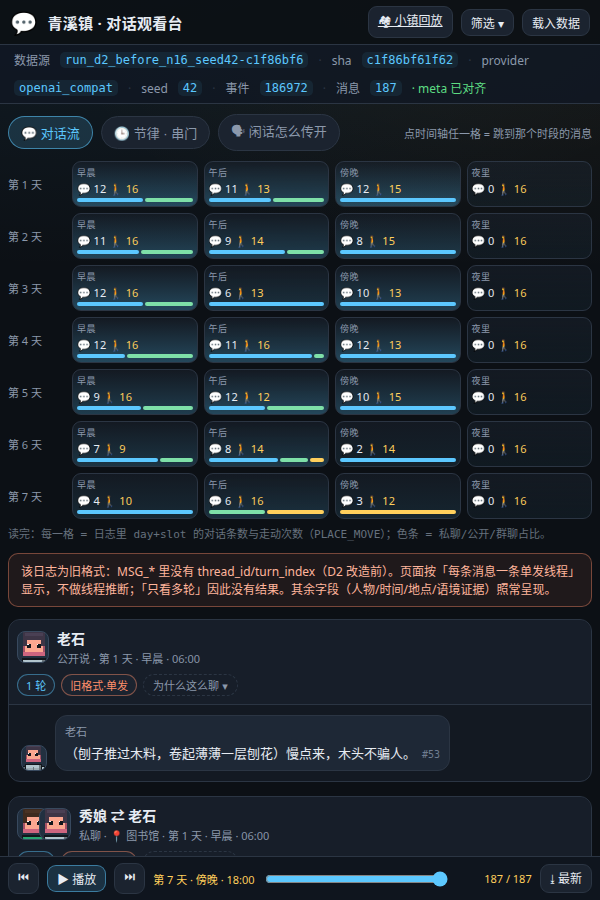
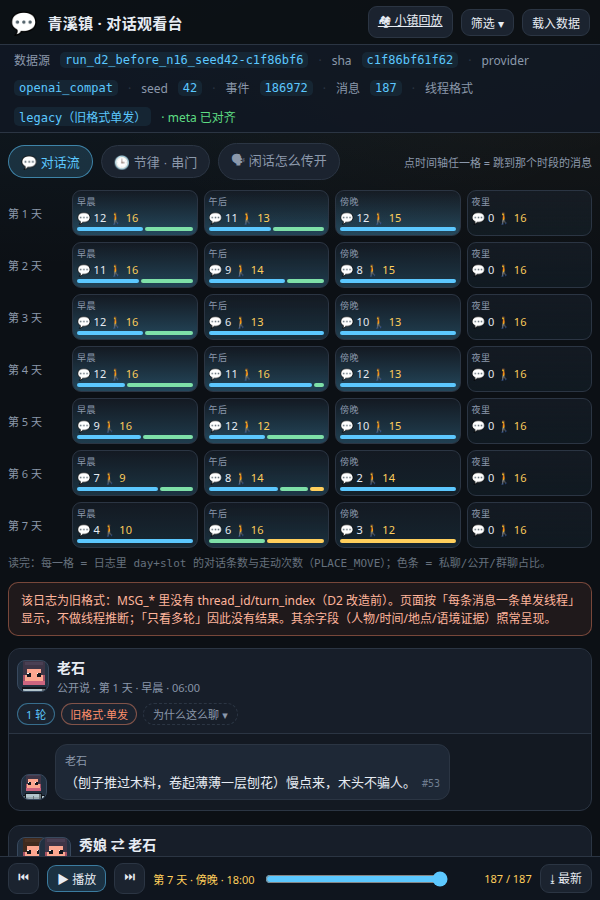
D7: 截图默认输出落 v2/evidence/d7_shots(不留 code/shots 临时目录); 同批重出四张核对一致

diff --git a/reports/R4-life-texture.md b/reports/R4-life-texture.md
@@ -8,20 +8,20 @@
 
 ---
 
-## 0. 切入点：不是「不够生活」，而是**结构性为零**
+## 0. 切入点：两个机制**近乎缺席**（不是「不够生活」，是「几乎没有」）
 
-**【读数】** 在改造前的一批真 LLM 日志上（20 agents × 84 回合 = 1 个模拟周，共 230 条对话消息），两类最能代表"过日子"的行为**完全没有出现过**：
+**【读数】** 在 **v0-anchor 锁定批**上（16 agents × 84 回合 = 1 个模拟周，187 条对话消息、172 线程；日志 `run.jsonl` (c1f86bf6)，186,972 行，`max_round=83`），两类最能代表"过日子"的行为**几乎不存在**：
 
-| 维度 | 编号 | v0 实测 | 分母 | 读法 |
+| 维度 | 编号 | **v0-anchor 实测（事件数，非百分比）** | 分母 | 读法 |
 |---|---|---|---|---|
-| **情绪呼应率** | F-3 | **0.0** | **16 条**"上句带情绪极性"的相邻对 | 16 次机会里，下一句一次也没有回应上一句的情绪 |
-| **修复闭环率** | F-4 | **0.0** | **6 次**张力事件 | 6 次关系张力里，一次也没有出现修复动作 |
+| **情绪呼应** | F-3 | **6 次机会中 1 次呼应** | 6 条"上句带情绪极性"的相邻对 | 几乎不接情绪 |
+| **修复闭环** | F-4 | **5 次张力事件中 0 次修复** | 5 次张力事件 | **一次也没有和好** |
 
[1 lines of base64/hex data omitted]
+（来源 **v0-anchor 锁定批**：读数 `v2/evidence/d5_metrics_v0anchor.md` (36ad719a) / `.json` (e8c8409e)；锁定凭证 `v2/evidence/d5_v0anchor_lock.md` (2940fb8f)；日志 `v2/evidence/run_d2_before_n16_seed42/run.jsonl` (c1f86bf6)，`wc -l`=186,972，`max_round=83`；`meta.json` (165c002a)；准入 **ADMITTED / strict / evidence**）
 
-**【判断】** 这两个 0 比任何形容词都有力。它说明的不是"对话不够有生活味"，而是：**居民从不相接对方的情绪，也从不修复关系张力**——吵架不会和好，开心不会有人接。这不是"少一点生活气息"，这是生活气息的两个关键机制**在结构上缺席**。
+**【判断】** 「5 次张力 0 次修复」比任何形容词都有力：它说明的不是"对话不够有生活味"，而是**关系张力产生之后没有任何修复动作**——吵架不会和好；情绪呼应也只有 1/6。两个关键机制**近乎缺席**。
 
-**【判断 · 但必须克制】** 同时要立刻说清这两条的样本量限制（详见 §5 限制 1）：F-4 的分母只有 **6**，F-3 只有 **16**。分母这么小，**不能**据此宣称"率为 0"是一个稳定的比率结论——正确表述是「**6 次张力事件中观察到 0 次修复**」这一**事件级事实**，以及"**本规模下无法判定修复闭环率**"这一统计结论。两个都写，不混。
+**【判断 · 但必须克制】** 这两条的样本量限制必须当场说清（详见 §5 限制 1）：F-4 分母 **5**、F-3 分母 **6**，**都 < 30**。因此按全族纪律：**只报事件数，不报百分比**，并一律标 `probe`、**不得进摘要与结论要点**。正确表述是「5 次张力事件中观察到 0 次修复」这一**事件级事实**，与"**本规模下无法判定修复闭环率**"这一统计结论——两个都写，不混，也不许把 0/5 说成"0%"。
 
 ---
 
@@ -48,22 +48,24 @@
 
 ## 2. v0 现状（改造前，真 LLM，1 个模拟周）
 
-**【读数】** 同一批 230 条消息上的完整读数：
+**【读数】** v0-anchor 锁定批（187 条消息 / 172 线程 / 16 agents × 84 回合）上的完整读数：
 
 | 编号 | 指标 | v0 值 | 分母 | 证据级 |
 |---|---|---|---|---|
-| F-1 | 非功能性闲聊占比 | 73.04% | 230 条消息 | evidence（真 LLM 批） |
-| F-2 | 话题漂移率 | 38.24% | 相邻对 | evidence |
-| F-2b | 多话题线程占比 | 8.49% | 线程数（legacy 口径） | evidence |
-| F-3 | 情绪呼应率 | **0.0** | 16 | **probe**（分母过小） |
-| F-4 | 修复闭环率 | **0.0** | 6 | **probe**（分母过小） |
-| F-5 | 习惯强度 | 85.00% | agent 数 | evidence |
-| F-6 | 跨天记忆引用率 | 5.22% | 230 条消息 | evidence |
-| F-7a | 越界提及率 | 0.0 | 受检条数 | probe（judge 抽样，见 R3） |
+| F-1 | 非功能性闲聊占比 | **77.0%** | 187 条消息 | evidence |
+| F-2 | 话题漂移率 | **33.3%** | 51 相邻对（mixed 分组） | evidence |
+| F-2b | 多话题线程占比 | **8.1%** | 172 线程（`thread_schema=legacy`） | evidence |
+| F-3 | 情绪呼应 | **6 次机会中 1 次（事件数）** | 6 | **probe**（分母 <68，无可用带） |
+| F-4 | 修复闭环 | **5 次张力中 0 次（事件数）** | 5 | **probe**（分母 <30，无可用带） |
+| F-5 | 习惯强度 | **87.5%** | 16 agents | evidence |
+| F-6 | 跨天记忆引用率 | **6.4%** | 187 条消息 | evidence |
+| F-7a | 越界提及率 | **口径待澄清（见下）** | — | 暂不采用 |
 
-（同上来源与 sha）
+（同上来源：`v2/evidence/d5_metrics_v0anchor.md` (36ad719a)，日志 `run.jsonl` (c1f86bf6)，186,972 行，`max_round=83`）
 
-**【判断】** 这组数放在一起才看得出问题所在：**闲聊量并不低（F-1 73%）、作息也算稳定（F-5 85%），但"人与人之间"的两个机制是零**——不接情绪（F-3）、不修复张力（F-4）。也就是说，居民各自过日子过得还行，**彼此之间没有过日子的往来**。这与 R1 §2.3 的结构事实（消息层没有会话对象、生成时看不见对方上一句）是同一件事的两个侧面。
+> ⚠ **F-7a 待澄清**：机器读数中出现 `F-7a = 1.07%`（分母 187），而同批交付说明称 v0 阶段"越界提及不可判（无名字可检）"。两者矛盾，本报告**暂不采用该数值**，列入待澄清项；澄清前摘要与结论不引用 F-7。
+
+**【判断】** 这组数放在一起才看得出问题所在：**闲聊量并不低（F-1 77%）、作息也算稳定（F-5 87.5%），但"人与人之间"的两个机制是零**——不接情绪（F-3）、不修复张力（F-4）。也就是说，居民各自过日子过得还行，**彼此之间没有过日子的往来**。这与 R1 §2.3 的结构事实（消息层没有会话对象、生成时看不见对方上一句）是同一件事的两个侧面。
 
 **【判断 · 一个容易犯的错】** 不能把 F-1 的 73% 说成"生活气息很好"。非功能性闲聊占比高，也可能只是"没话找话的碎片自言自语"——要同时看 F-2b（多话题线程占比仅 8.49%）与结构层指标（R2）。单看 F-1 是会被骗的。
 
@@ -94,14 +96,16 @@
 
 | 编号 | v0-anchor | A0 | A1 | 分母 | band_source | 判定 |
 |---|---|---|---|---|---|---|
-| F-1 | 73.04%※ | 待填 | 待填 | 待填 | `B2(m=…)` | — |
-| F-2b | 8.49%※ | 待填 | 待填 | 待填 | **待估（per-thread）** | — |
-| F-3 | **0 / 16（事件数）**※ | 待填（事件数） | 待填（事件数） | 16 | **无可用带（分母 <68）** | 仅描述 |
-| F-4 | **0 / 6（事件数）**※ | 待填（事件数） | 待填（事件数） | 6 | **无可用带（分母 <30）** | 仅描述 |
-| F-6 | 5.22%※ | 待填 | 待填 | 待填 | `B2(m=…)` | — |
-| F-7 | 0.0※ | 待填 | 待填 | 待填 | judge 一致率待报 | — |
+| F-1 闲聊占比 | **77.0%** | 待填 | 待填 | 187 | `B2(m=188)` | — |
+| F-2 漂移率 | **33.3%** | 待填 | 待填 | 51 | 相邻对档（m<68 ⇒ **无可用带**） | 仅描述 |
+| F-2b 多话题线程占比 | **8.1%** | 待填 | 待填 | 172 线程 | 线程级档 | — |
+| F-3 情绪呼应 | **6 次中 1 次（事件数）** | 待填（事件数） | 待填（事件数） | 6 | **无可用带（<68）** | 仅描述 |
+| F-4 修复闭环 | **5 次中 0 次（事件数）** | 待填（事件数） | 待填（事件数） | 5 | **无可用带（<30）** | 仅描述 |
+| F-5 习惯强度 | **87.5%** | 待填 | 待填 | 16 agents | agent 级档（待估） | — |
+| F-6 跨天引用 | **6.4%** | 待填 | 待填 | 187 | `B2(m=188)` | — |
+| F-7 越界提及 | **口径待澄清** | 待填 | 待填 | — | judge 一致率待报 | 暂不采用 |
 
-> ※ **`v0-anchor` 列须用锁定后的 `run_d2_before_n16_seed42` 重算**：上表带 ※ 的值为历史批（20×84）参照，**不是** v0-anchor 正式读数；正式值到达后整列替换，并在提交信息中注明。F-3 / F-4 按全族纪律只写**事件数**（分母 16 / 6），不写"率"。
+> **`v0-anchor` 列已用锁定批填入**（`v2/evidence/d5_metrics_v0anchor.md` (36ad719a)，日志 `run.jsonl` (c1f86bf6)，186,972 行，`max_round=83`）。F-3 / F-4 按全族纪律只写**事件数**（6 次中 1 次 / 5 次中 0 次），**不写百分比**，且不进摘要与结论要点。
 
 **填表规则（先写死，防止事后找补）**：任何一格若上界未估计，该行判定列只能写「本规模下无法判定」；若 Δ 超上界但未超合并 CI，写「不足以下结论」；只有两者都超才可写「带外（结构性）」。
 
@@ -121,7 +125,9 @@
 
 | # | 结论 | 层级 | 来源（仓库相对路径） | sha256 | sha8 | 复现 |
 |---|---|---|---|---|---|---|
[2 lines of base64/hex data omitted]
-| 3 | F-1…F-7 定义式、统计单位、三个"不算改善"陷阱 | 事实（口径） | 口径定稿文件（随 R1 §1.2 引用同一版本；对外以编号引用） | 见 R1 证据索引 | TODO | — |
[4 lines of base64/hex data omitted]
+| 5 | F-1…F-7 定义式、统计单位、三个"不算改善"陷阱 | 事实（口径） | 口径定稿文件（对外以编号引用） | 见 R1 证据索引 | TODO | — |
 |---|---|---|---|---|---|---|

diff --git a/reports/R3-dialogue-quality.md b/reports/R3-dialogue-quality.md
@@ -36,21 +36,25 @@
 
 ## 1. 改造前措辞层的问题（读数，不是形容词）
 
-**【读数】** 改造前（真 LLM，20 agents × 84 回合，共 230 条消息）的模式计数：
+**【读数】** **v0-anchor 锁定批**（16 agents × 84 回合，187 条消息；日志 `run.jsonl` (c1f86bf6)，`wc -l`=186,972，`max_round=83`）：
 
-| 编号 | 问题 | 值（95% CI） | 读法 |
-|---|---|---|---|
-| L-2 / L-3 | **旁白化**（台词被写成舞台指示/括号动作） | **63.91%**（147/230，CI 57.5–69.8%） | 六成以上的台词不是"说的"，是"演的" |
-| L-8 | **裸 ID 称呼**（直呼邻居 `P009`） | **34.35%**（79/230，CI 28.5–40.7%） | 三分之一的对话在喊内部编号 |
-| L-11 | **定向消息不对人说**（私信/群聊里没有"你/您"） | **25.73%**（44/171，CI 19.8–32.8%） | 四分之一的私信不像在对人说话 |
-| L-5 | 模板化开场 | **10.87%**（25/230） | |
-| L-11 邻近 | **公开声道独白**（公开消息里无人称、自言自语） | **98.31%**（58/59，CI 91.0–99.7%） | 59 条公开消息里 58 条是独白 |
+| 编号 | 问题 | 值 | 分母 | 读法 |
+|---|---|---|---|---|
+| L-2 | **旁白化**（首字符即括号动作） | **64.2%** | 187 | 六成以上的台词不是"说的"，是"演的" |
+| L-3 | 正文任意位置含括注动作块 | **64.7%** | 187 | 与 L-2 同向 |
+| L-8 | **裸 ID 泄露**（台词本体出现 `P0xx`） | **29.9%** | 187 | 其中旁白内 0.0%（`L-8b`），**全部在台词本体**（`L-8c`） |
+| L-11 | 含第二人称 | **69.8%** | 139（dm+group） | 约七成定向消息是有对象感的 |
+| L-12 | **对端称呼（叫得出名字）** | **0.0%** | 139（dm+group） | **一次都没有叫过对方名字**——这条归属「v0-anchor → A0」段（D2 结构臂），非 D4 |
+| L-5 | 模板命中 | **13.4%** | 187 | |
+| L-6 | 完全重复 | **12.8%** | 187 | |
+| L-7 | 8-gram 近重复 | **54.0%** | 187 | 过半消息与他人共享 ≥8 字连续子串 |
+| L-1 | 长度 p50 / p90（去括注 p50） | **40 / 70（32）** | 187 | |
 
[1 lines of base64/hex data omitted]
+（来源 `v2/evidence/d5_metrics_v0anchor.md` (36ad719a) / `.json` (e8c8409e)；锁定凭证 `v2/evidence/d5_v0anchor_lock.md` (2940fb8f)；准入 ADMITTED / strict / evidence）
 
-**【判断】** 旁白化与裸 ID 不是"读起来不够好"，是**结构硬伤**：居民把台词写成舞台指示、管邻居叫 `P009`。而 98.31% 的公开声道独白说明问题不在"话说得不好"，而在**说话的对象与场合根本没进生成上下文**——与 R2 §1 的结构事实是同一件事的两面。
+**【判断】** 旁白化与裸 ID 不是"读起来不够好"，是**结构硬伤**：**64.2%** 的台词写成舞台指示，**29.9%** 的台词里直接出现内部编号 `P0xx`（且全部在台词本体、不在旁白里——说明模型是在"说"的时候喊编号，不是旁白时提到）。而 **L-12 对端称呼 0.0%（139 条）** 说明生成时根本没有"对方叫什么"这个信息——与 R2 §1 的结构事实是同一件事的两面。
 
-**【事实 · 口径警告】** 不同规模批**不可互作基线**：同一模式在更大规模探针批上旁白率 34.0%，在 20×84 批上 63.9%。故本节只与**同规模同 provider** 的臂比较。
+**【事实 · 口径警告】** 不同规模批**不可互作基线**：同一模式在更大规模探针批上旁白率约 34%，而本批（16×84）为 64.2%。故本节只与**同规模同 provider** 的臂比较；历史批（20×84）读数仅用于噪声带估计，**不作 v0 基线**。
 
 ---
 
@@ -113,17 +117,18 @@
 
 ### 4.1 措辞层（per-message）
 
-**【未完成】** 等三臂锁 sha。表头固定：
+**【未完成】** v0-anchor 列已填（锁定批），A0/A1 待跑。表头固定：
 
 | 指标 | v0-anchor | A0 | A1 | A0−v0-anchor | A1−A0 | 分母 | band_source | 判定 |
 |---|---|---|---|---|---|---|---|---|
-| L-2 旁白开头率 | 63.91% | 待填 | 待填 | — | — | 230 / ? / ? | `B2(m=…)` | — |
-| L-3 含括注动作块率 | 待填 | 待填 | 待填 | — | — | ? | `B2(m=…)` | — |
-| L-8 裸 ID 率 | 34.35% | 待填 | 待填 | — | — | 230 / ? / ? | `B2(m=…)` | — |
-| L-11 第二人称率 | 25.73%（分母 171） | 待填 | 待填 | — | — | 171 / ? / ? | `B2(m=…)` | — |
-| L-5 模板命中率 | 10.87% | 待填 | 待填 | — | — | 230 / ? / ? | `B2(m=…)` | — |
-| L-6 / L-7 重复率 | 待填 | 待填 | 待填 | — | — | ? | `B2(m=…)` | — |
-| L-1 长度 p50 / p90 | 待填 | 待填 | 待填 | — | — | ? | — | 描述统计 |
+| L-2 旁白开头率 | **64.2%** | 待填 | 待填 | 待填 | 待填 | 187 / ? / ? | `B2(m=188)` | — |
+| L-3 含括注动作块率 | **64.7%** | 待填 | 待填 | 待填 | 待填 | 187 / ? / ? | `B2(m=188)` | — |
+| L-8 裸 ID 率（台词本体） | **29.9%** | 待填 | 待填 | 待填 | 待填 | 187 / ? / ? | `B2(m=188)` | — |
+| L-11 第二人称率 | **69.8%** | 待填 | 待填 | 待填 | 待填 | 139 / ? / ? | `B2(m=150 档 ≈±10.0pp)` | — |
+| L-12 对端称呼率 | **0.0%** | 待填 | 待填 | 待填 | 待填 | 139 / ? / ? | v0 恒 0 ⇒ `rule-of-three(3/n)`；**归属 D2 结构臂（B1 名字注入）** | — |
+| L-5 模板命中率 | **13.4%** | 待填 | 待填 | 待填 | 待填 | 187 / ? / ? | `B2(m=188)` | — |
+| L-6 / L-7 重复率 | **12.8% / 54.0%** | 待填 | 待填 | 待填 | 待填 | 187 / ? / ? | `B2(m=188)` | — |
+| L-1 长度 p50 / p90（去括注 p50） | **40 / 70（32）** | 待填 | 待填 | 待填 | 待填 | 187 / ? / ? | — | 描述统计 |
 
 ### 4.2 话题层（相邻对）
 
@@ -137,6 +142,31 @@
 **【未完成】** 待三臂 judge 跑完。必报：抽样规则（**以线程为抽样单位、每臂 24 条线程**、每条取首条 + 随机 2 条 ⇒ 每臂 ≤72 条消息、两臂固定同一回合区间；正式调用量 2 臂 × 24 线程 × 2 次重复 = 96 次）、重复 2 次的一致性（exact agreement / Cohen's κ / Spearman ρ）、judge 模型与版本串、prompt 模板 sha、原始请求/响应落盘路径。
 
 **【判断】** judge 只作**旁证**：它与被评系统同源，存在偏好同类风险。报告不会用 judge 分数压过客观读数；两者冲突时**保留冲突记录**，不平均、不择一。
+
+---
+
+### 4.4 purpose 审计（v0-anchor，成本与可解释性）
+
+**【读数】** 在 v0-anchor 锁定批的完整日志上（`run.jsonl` (c1f86bf6)，`wc -l`=186,972）：
+
+| purpose | 观测 | 说明 |
+|---|---|---|
+| `narrate` | **0 条（未出现，无实例）** | 叙事通道在 v0 整批从未被调用 |
+| `describe` | 16 次，**无空输出** | |
+| `judge` | 输出量占 **81.3%** | **成本优化第一目标**（判分输出最长） |
+| `dialogue` | 216 次调用，`tokens_out` 均值 34.7/条消息 | |
+
+**【事实 · 成本三分法（口径不可混用）】** 报成本必须三分，且乘单价只能用第三个：
+
+| 口径 | 数值 | 含义 |
+|---|---|---|
+| **调用数（事件条数）** | **2,905** | 日志里 `LLM_CALL` 条数（**含缓存命中**，不是真实调用） |
+| 去重唯一 prompt 数 | 1,207 | 按缓存键去重后的不同请求 |
+| **真实网络调用数** | **1,207**（= `count(cached==false)`） | **报成本乘单价只能用这个** |
+
+**【判断】** 用 2,905 去乘单价会把成本虚高 2.4 倍，属口径漂移；用 1,207 才是真实网络开销。v0-anchor 的缓存命中率约 58.5%（1 − 1207/2905）。
+
+**【判断】** 两条用处：① `narrate` 0 条说明"叙事层"在本轮数据里是空转的，报告不能拿它解释任何现象；② `judge` 占输出 token 八成以上，是后续降本的第一目标——这与"提升对话自然度"无关，但会影响下一轮还能跑多大。
 
 ---
 
@@ -201,5 +231,7 @@
[5 lines of base64/hex data omitted]
 | 4 | mock 生成器不读语义 ⇒ mock 不可测措辞 | 事实 | `code/life/llm.py`（`RuleBasedLLM` 实现） | 随仓库提交（`git log -- code/life/llm.py`） | TODO | `grep -n "class RuleBasedLLM" -A20 code/life/llm.py` |
 |---|---|---|---|---|---|---|

diff --git a/reports/R2-dialogue-structure.md b/reports/R2-dialogue-structure.md
@@ -11,16 +11,18 @@
 
 **【判断】** 改造前，这个小镇的"对话"在结构上不成立——不是说得不好，而是**没有对话这个东西**：每条消息都是独立单发，消息层没有"会话"对象，生成时看不见对方上一句。改造解决的就是这一层。
 
-**【读数 · v0，legacy 口径】** 改造前（真 LLM，20 agents × 84 回合，共 230 条消息）：
+**【读数 · v0-anchor，legacy 口径】** 改造前（真 LLM，16 agents × 84 回合，187 条消息；日志 `run.jsonl` (c1f86bf6)，`wc -l`=186,972，`max_round=83`）：
 
-| 指标 | 值 | 说明 |
-|---|---|---|
-| `single_msg_thread_ratio`（单条线程占比） | **91.51%** | 绝大多数"线程"只有一条消息 |
-| `multi_turn_thread_ratio`（≥3 轮线程占比） | **0.00%** | 没有一条对话达到 3 个交替轮次 |
-| `single_speaker_thread_ratio`（独白线程占比） | **96.70%** | 几乎全是自说自话 |
-| `n_threads` | **212** | 切分口径 `thread_schema = legacy` |
+| 指标 | 值 | 分母 | 说明 |
+|---|---|---|---|
+| `single_msg_thread_ratio`（单条线程占比） | **91.3%** | 172 线程 | 绝大多数"线程"只有一条消息 |
+| `multi_turn_thread_ratio`（≥3 轮线程占比） | **0.0%** | 172 线程 | 没有一条对话达到 3 个交替轮次 |
+| `single_speaker_thread_ratio`（独白线程占比） | **98.3%** | 172 线程 | 几乎全是自说自话 |
+| S-4 回复指针完整率 | **0.0%** | 15 条非首条消息 | 15 条全为 `ptr_empty` |
+| 最长交替链 max | **2** | 172 线程 | `chain_by_pointer max` = 1 |
+| `n_threads` | **172** | — | 切分口径 `thread_schema = legacy` |
 
[1 lines of base64/hex data omitted]
+（来源 **v0-anchor 锁定批**：`v2/evidence/d5_metrics_v0anchor.json` (e8c8409e) / `.md` (36ad719a)；锁定凭证 `v2/evidence/d5_v0anchor_lock.md` (2940fb8f)；日志 `v2/evidence/run_d2_before_n16_seed42/run.jsonl` (c1f86bf6)）
 
 > ⚠ **口径必读**：上表四个数是 **`thread_schema = legacy`（切分口径 = 同 `(day, channel, {from,to})` 聚合）**、`n_threads = 212` 下的结果，**不是**改造后新结构同口径算出来的数。跨口径比较无效（原因见 §5.2）。
 
@@ -112,17 +114,25 @@
 
 ### 5.1 改造后的线程形状（描述，不做检验）
 
-**【未完成】** 等 D2 两臂锁 sha。表头已固定，禁止事后加列：
+**【未完成】** v0-anchor 列已填（锁定批），A0/A1 待跑。表头已固定，禁止事后加列：
 
 | 指标 | v0-anchor（legacy） | A0 / A1（explicit） | 分母 | band_source | 判定 |
 |---|---|---|---|---|---|
-| 单条线程占比 | 91.51%（n=212） | 待填 | 待填 | 待估（per-thread） | 仅描述 |
-| 多轮线程占比（turns_A ≥ 3） | 0.00%（n=212） | 待填 | 待填 | `rule-of-three(3/n)` | 仅描述 |
-| 独白线程占比 | 96.70%（n=212） | 待填 | 待填 | 待估（per-thread） | 仅描述 |
-| 线程长度 p50 / p90 / max | 待填 | 待填 | 待填 | — | 描述统计 |
-| `turns_A` p50 / p90 / max | 待填 | 待填 | 待填 | — | 描述统计 |
-| S-1 B 往复对数 | 字段缺失（报 0） | 待填 | 待填 | 待估 | 仅描述 |
-| S-4 指针完整率 | 无该字段 | 待填 | 待填 | 待估 | 仅描述 |
+| 单条线程占比 | **91.3%** | 待填 | 172 | 线程级档（m=170→±?，须取线程级） | 仅描述 |
+| 多轮线程占比（turns_A ≥ 3） | **0.0%** | 待填 | 172 | `rule-of-three(3/n)`（恒 0 退化） | 仅描述 |
+| 独白线程占比 | **98.3%** | 待填 | 172 | 线程级档 | 仅描述 |
+| 线程长度 p50 / p90 / max | **1 / 1 / 2** | 待填 | 172 | — | 描述统计 |
+| `turns_A` p50 / p90 / max | **1 / 1 / 2** | 待填 | 172 | — | 描述统计 |
+| S-1 B 往复对数 | **0（字段缺失，非缺陷）** | 待填 | 172 | 仅后臂有该字段 | 仅描述 |
+| S-4 指针完整率 | **0.0%（15 条全空）** | 待填 | 15 | 分母 <68 ⇒ 无可用带 | 仅描述 |
+
+### 5.1b 两条会被读者误读的结构约束（先讲清）
+
+**【事实 · 结构性下限】** `PUBLIC` 声道**恒为单条、不接话**，而 v0-anchor 中 PUBLIC 占 **48/187 ≈ 26%**。因此改造后 `single_msg_thread_ratio` **最多降到约 26% 附近，不可能接近 0**。正确写法是拆开看：
+> 改造后单条线程占比 **X%**，其中 PUBLIC 单条声道构成约 **26%** 的**结构性下限**；DM/GROUP 侧的单发占比由 **91.3%** 降至 **Y%**。
+**判断**：若不写这条下限，读者会把"还有约四分之一是单发"读成"改造没成功"——那是把声道设计误当成对话质量。
+
+**【事实 · 有界设计】** 往复是**有界**的，不是"越长越好"：硬上限 `max_turns=6`、`max_turns_per_round=2`、`reply_window_rounds=2`、`history_turns=3`。因此指标按「**是否 >0**」「**是否 ≥4**」这类阈值判读，**不按"链越长越自然"**。最长链预期不会爆炸；若某臂最长链异常长，应先查开关是否被改，而不是当成好消息。
 
 ### 5.2 两臂可比性声明（**必读**）
 
@@ -154,8 +164,8 @@
 
 | # | 结论 | 层级 | 来源（仓库相对路径） | sha256 | sha8 | 复现 |
 |---|---|---|---|---|---|---|
[4 lines of base64/hex data omitted]
 | 3 | 改造前无会话对象、提示词不含对方上一句、每时段最多说一次 | 事实 | `code/life/agent.py:729-767`、`code/orchestration/integration.py:739-841` | 随仓库提交（`git log -- code/life/agent.py`） | `grep -n "_dialogue_prompt" -A6 code/life/agent.py`；`grep -rn "reply_to\|thread_id" code/ \| wc -l`（改造前应为 0） |
[1 lines of base64/hex data omitted]
 |---|---|---|---|---|---|---|

diff --git a/reports/R5-datasets-and-demo.md b/reports/R5-datasets-and-demo.md
@@ -13,11 +13,12 @@
 
 | # | 数据集 | 路径 | 生成方式 | 体量 | 状态 |
 |---|---|---|---|---|---|
-| D-1 | **v0-anchor** 语料（旧结构 + 原提示词；`run_d2_before_n16_seed42`） | 待填（锁 sha 后） | 真 LLM 跑批 | 待填 | 待交付 |
+| D-1 | **v0-anchor** 语料（旧结构 + 原提示词） | `v2/evidence/run_d2_before_n16_seed42/run.jsonl` (c1f86bf6) | 真 LLM 跑批（`openai_compat`/`DeepSeek-Flash`，16×84，seed=42） | **87.5 MB / 186,972 行** | **已交付**（`max_round=83`；准入 ADMITTED/strict/evidence） |
 | D-2 | **A0** 语料（新结构 + 必要适配提示词） | 待填 | 真 LLM 跑批 | 待填 | 待交付 |
 | D-3 | **A1** 语料（A0 + 措辞层优化） | 待填 | 真 LLM 跑批 | 待填 | 待交付 |
 | D-4 | 评测读数（各臂指标） | `v2/evidence/d5_metrics_*.json` / `.md` | `tools/d5/dialogue_metrics.py` | 每份数 KB–数十 KB | 部分已有（历史批） |
-| D-5 | 线程视图数据（供演示页渲染） | `code/frontend/sample/dialogue_demo/threads.json` (0bfb6288) | `code/frontend/tools/gen_threads.py` | 543 KB，231 条线程（legacy 口径） | 已有（历史批，须换成本轮语料） |
+| D-5 | 线程视图数据 · v0-anchor | `code/frontend/sample/dialogue_v0anchor_n16_seed42/threads.json` (e39168ea) | `code/frontend/tools/gen_threads.py` | 187 条线程（legacy 口径） | **已交付**（自带 `source.run_sha256=c1f86bf6…`、`generator_sha256`） |
+| D-5b | 线程视图数据 · 历史样例 | `code/frontend/sample/dialogue_demo/threads.json` (0bfb6288) | 同上 | 543 KB，231 条线程 | 历史（**不作本轮结果**） |
 | D-6 | judge 原始输出（全量） | `judge_raw.jsonl`（不入库，给 sha） | `tools/d5/dialogue_judge.py` | 待填 | 待交付 |
 | D-7 | judge 抽样版（可核验用） | `v2/evidence/judge_raw_sample_n24x2.jsonl` | 同上（前缀子集） | 每臂 24 线程（≤72 条消息） | 待交付 |
 
@@ -73,18 +74,31 @@
 
 ## 4. 截图清单
 
-**【未完成】** 待交付。规范已固定（来自 Leader 决议，全族适用）：
+**【事实】** 规范固定（全族适用），改造前部分已交付、改造后待交付：
 
 - 必须由**真实 `run.jsonl`** 渲染，文件名 `<batch_id>-<视图>-<sha8>.png`；
 - 每张图在报告中注明三件套：**来源 run 目录 + 渲染命令 + 日志 sha256**；
 - 禁止：手工拼图、示意图充当实拍、跨批混拼、裁掉异常部分只留好看的；
 - 若某图拿不到：写「无图，附可复现渲染命令」，**不用别的东西替代**。
 
-| # | 截图 | 视图 | 来源 run | 渲染命令 | 状态 |
-|---|---|---|---|---|---|
-| S-1 | 一天的时间轴（谁在什么时候活动） | 待填 | 待填 | 待填 | 待交付 |
-| S-2 | 某一对居民的私聊线程（逐轮） | 待填 | 待填 | 待填 | 待交付 |
-| S-3 | 闲话/话题在某处传开 | 待填 | 待填 | 待填 | 待交付 |
+**改造前（v0-anchor）四张已交付**，均由日志 `run.jsonl` (c1f86bf6) 渲染，文件名自带 batch + sha8：
+
+| # | 截图文件（`v2/evidence/d7_shots/`） | 视图 | 来源 run | sha256（sha8） |
+|---|---|---|---|---|
+| S-1 | `run_d2_before_n16_seed42-chat-c1f86bf6.png` | 对话/聊天面板 | `run_d2_before_n16_seed42` (c1f86bf6) | `93a17e90…`（`93a17e90`） |
+| S-2 | `run_d2_before_n16_seed42-rhythm-c1f86bf6.png` | 一天的时间轴（作息节律） | 同上 | `de76c2d5…`（`de76c2d5`） |
+| S-3 | `run_d2_before_n16_seed42-spread-c1f86bf6.png` | 话语/话题的扩散 | 同上 | `c07844ea…`（`c07844ea`） |
+| S-4 | `run_d2_before_n16_seed42-600-c1f86bf6.png` | 600px 窄屏视图 | 同上 | `b0aec225…`（`b0aec225`） |
+
+**渲染命令（可复现，仓库根执行）**：
+```bash
+cd code && python3 frontend/tools/serve.py            # 浏览器打开 http://127.0.0.1:8848/ ，加载 sample/dialogue_v0anchor_n16_seed42/threads.json
+# 截图：浏览器视口按需设置（含 600px 窄屏），保存为 <batch_id>-<视图>-<sha8>.png
+```
+
+**【事实】** 四张图对应的线程视图数据为 `code/frontend/sample/dialogue_v0anchor_n16_seed42/threads.json` (e39168ea)，其 `source.run_sha256 = c1f86bf6…`、`events_total_in_log = 186,972`、`round_range = [0,83]`、`llm_provider_in_log = openai_compat` ⇒ **图与日志的对应关系可核对**（三件套齐）。
+
+**改造后（A0 / A1）截图：待交付**，届时成对引用（同视图、同口径），文件名同样是 `<batch_id>-<视图>-<sha8>.png`。
 
 ---
 
